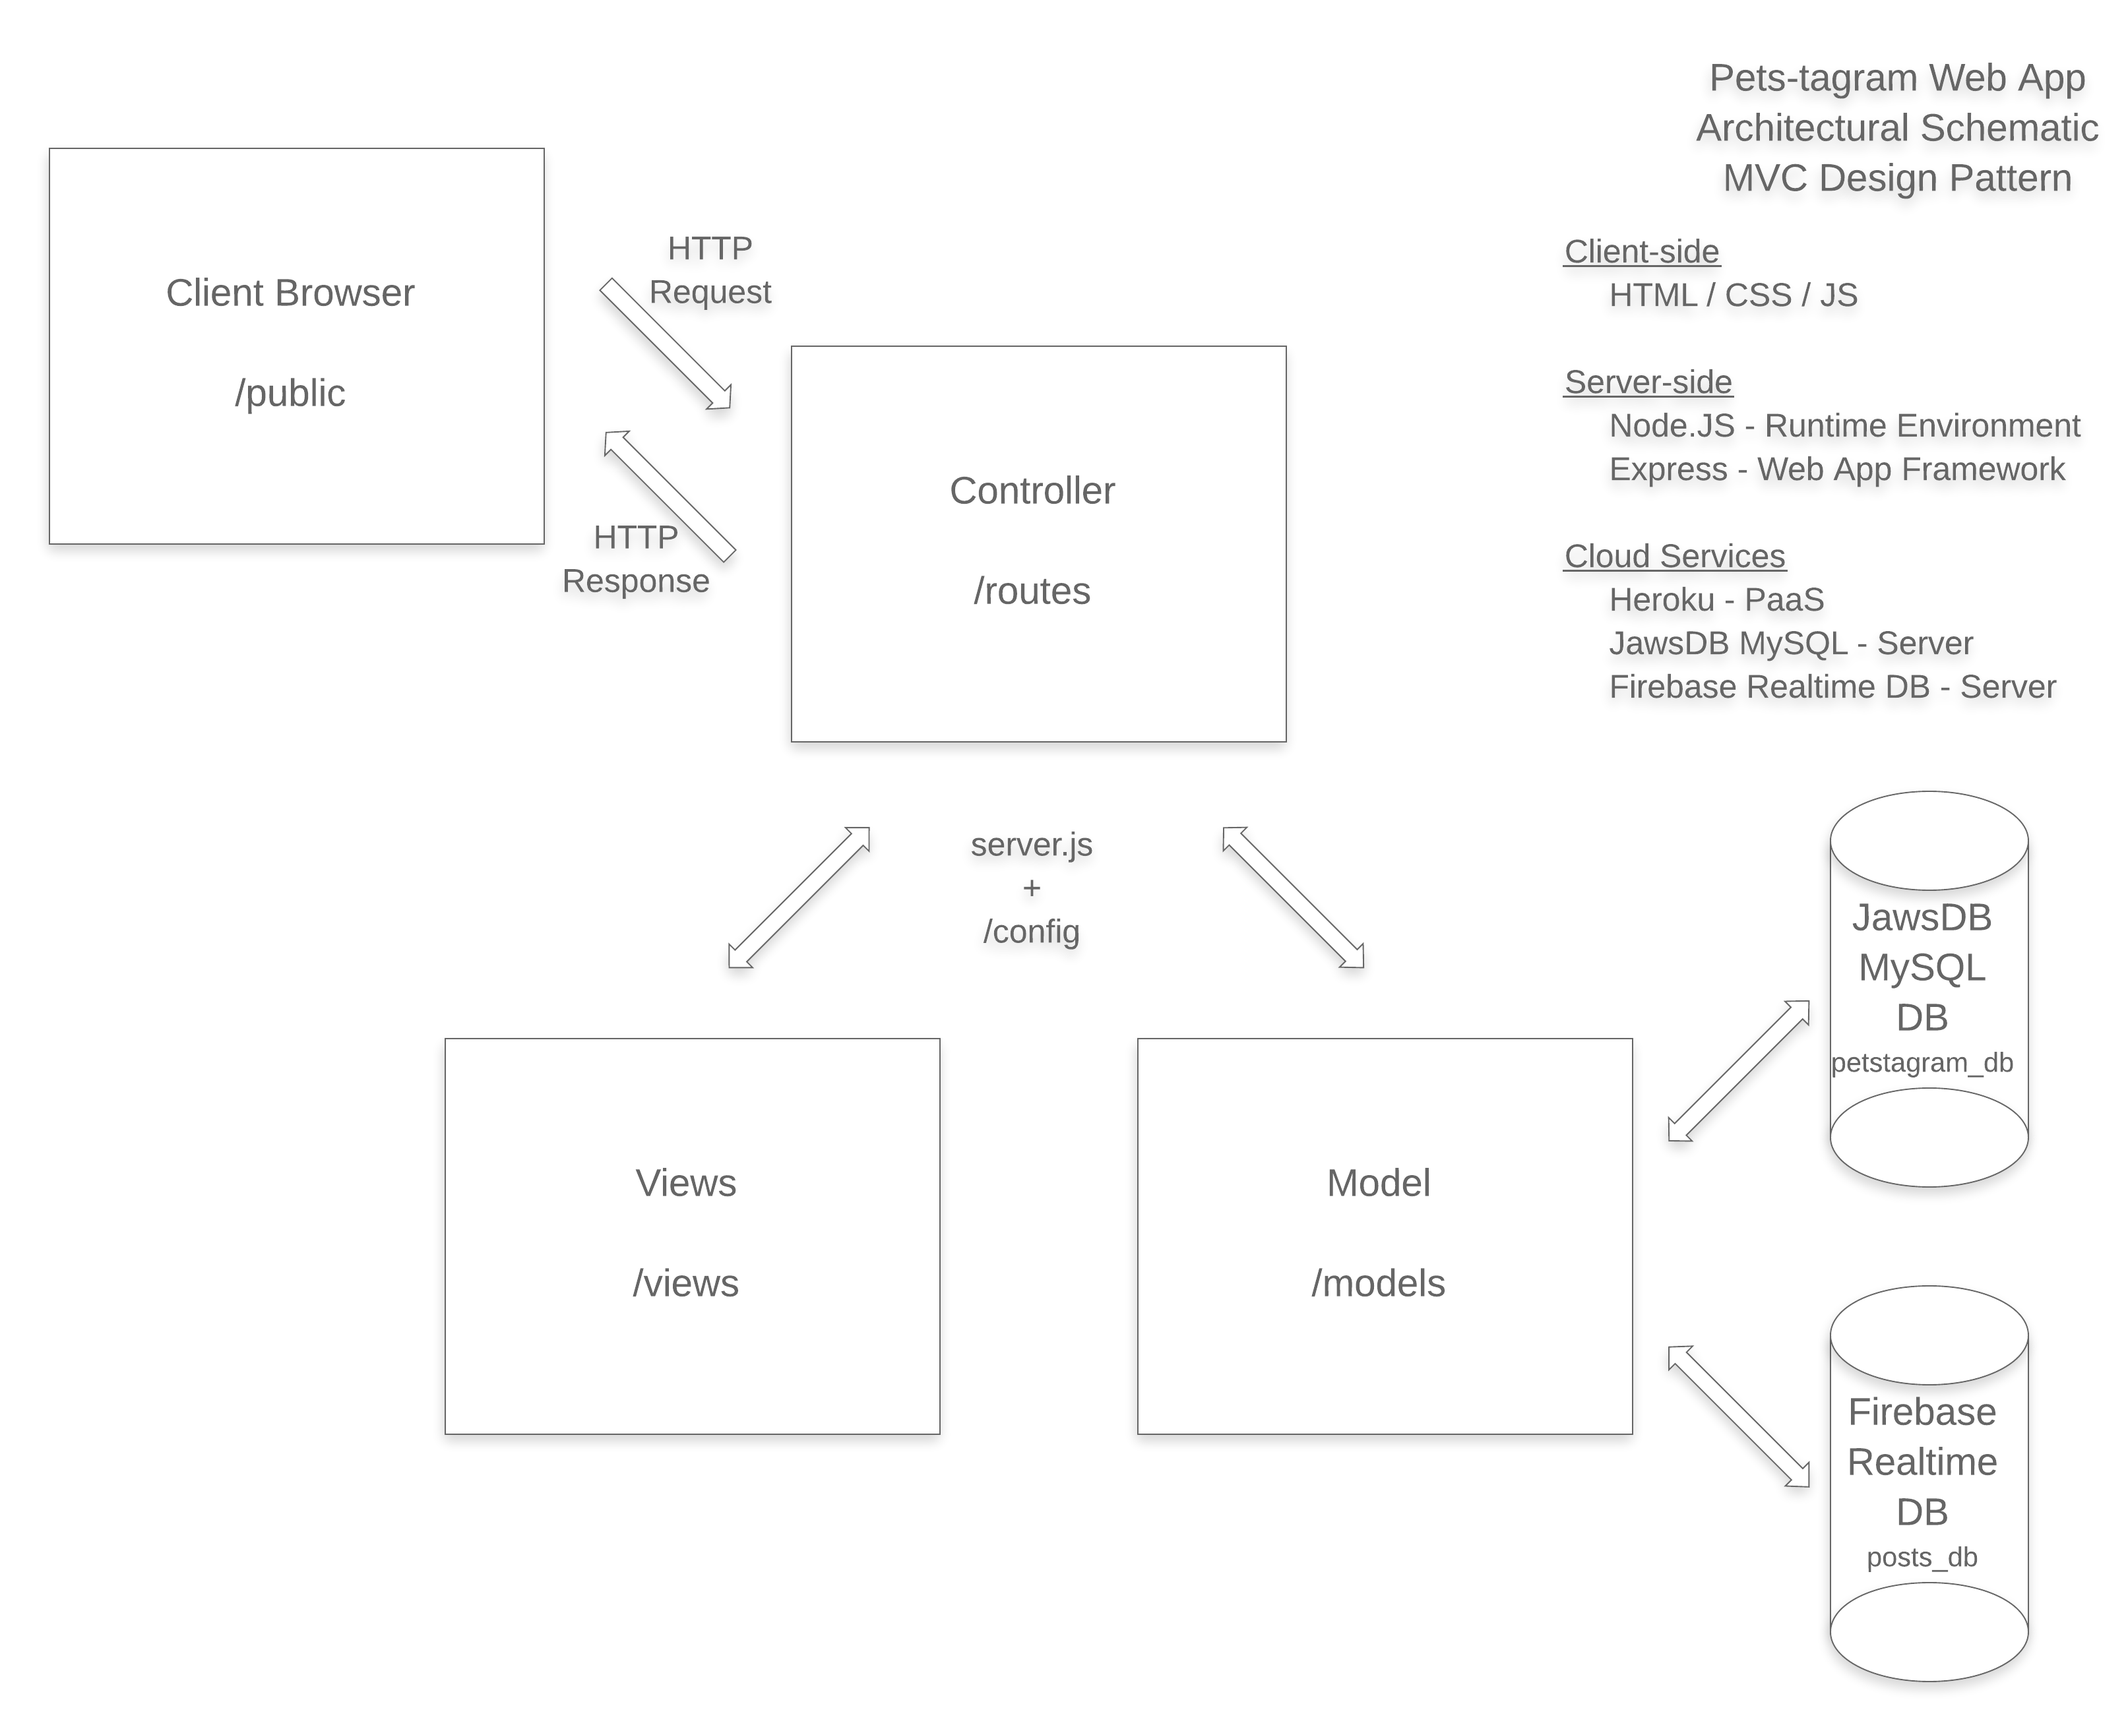
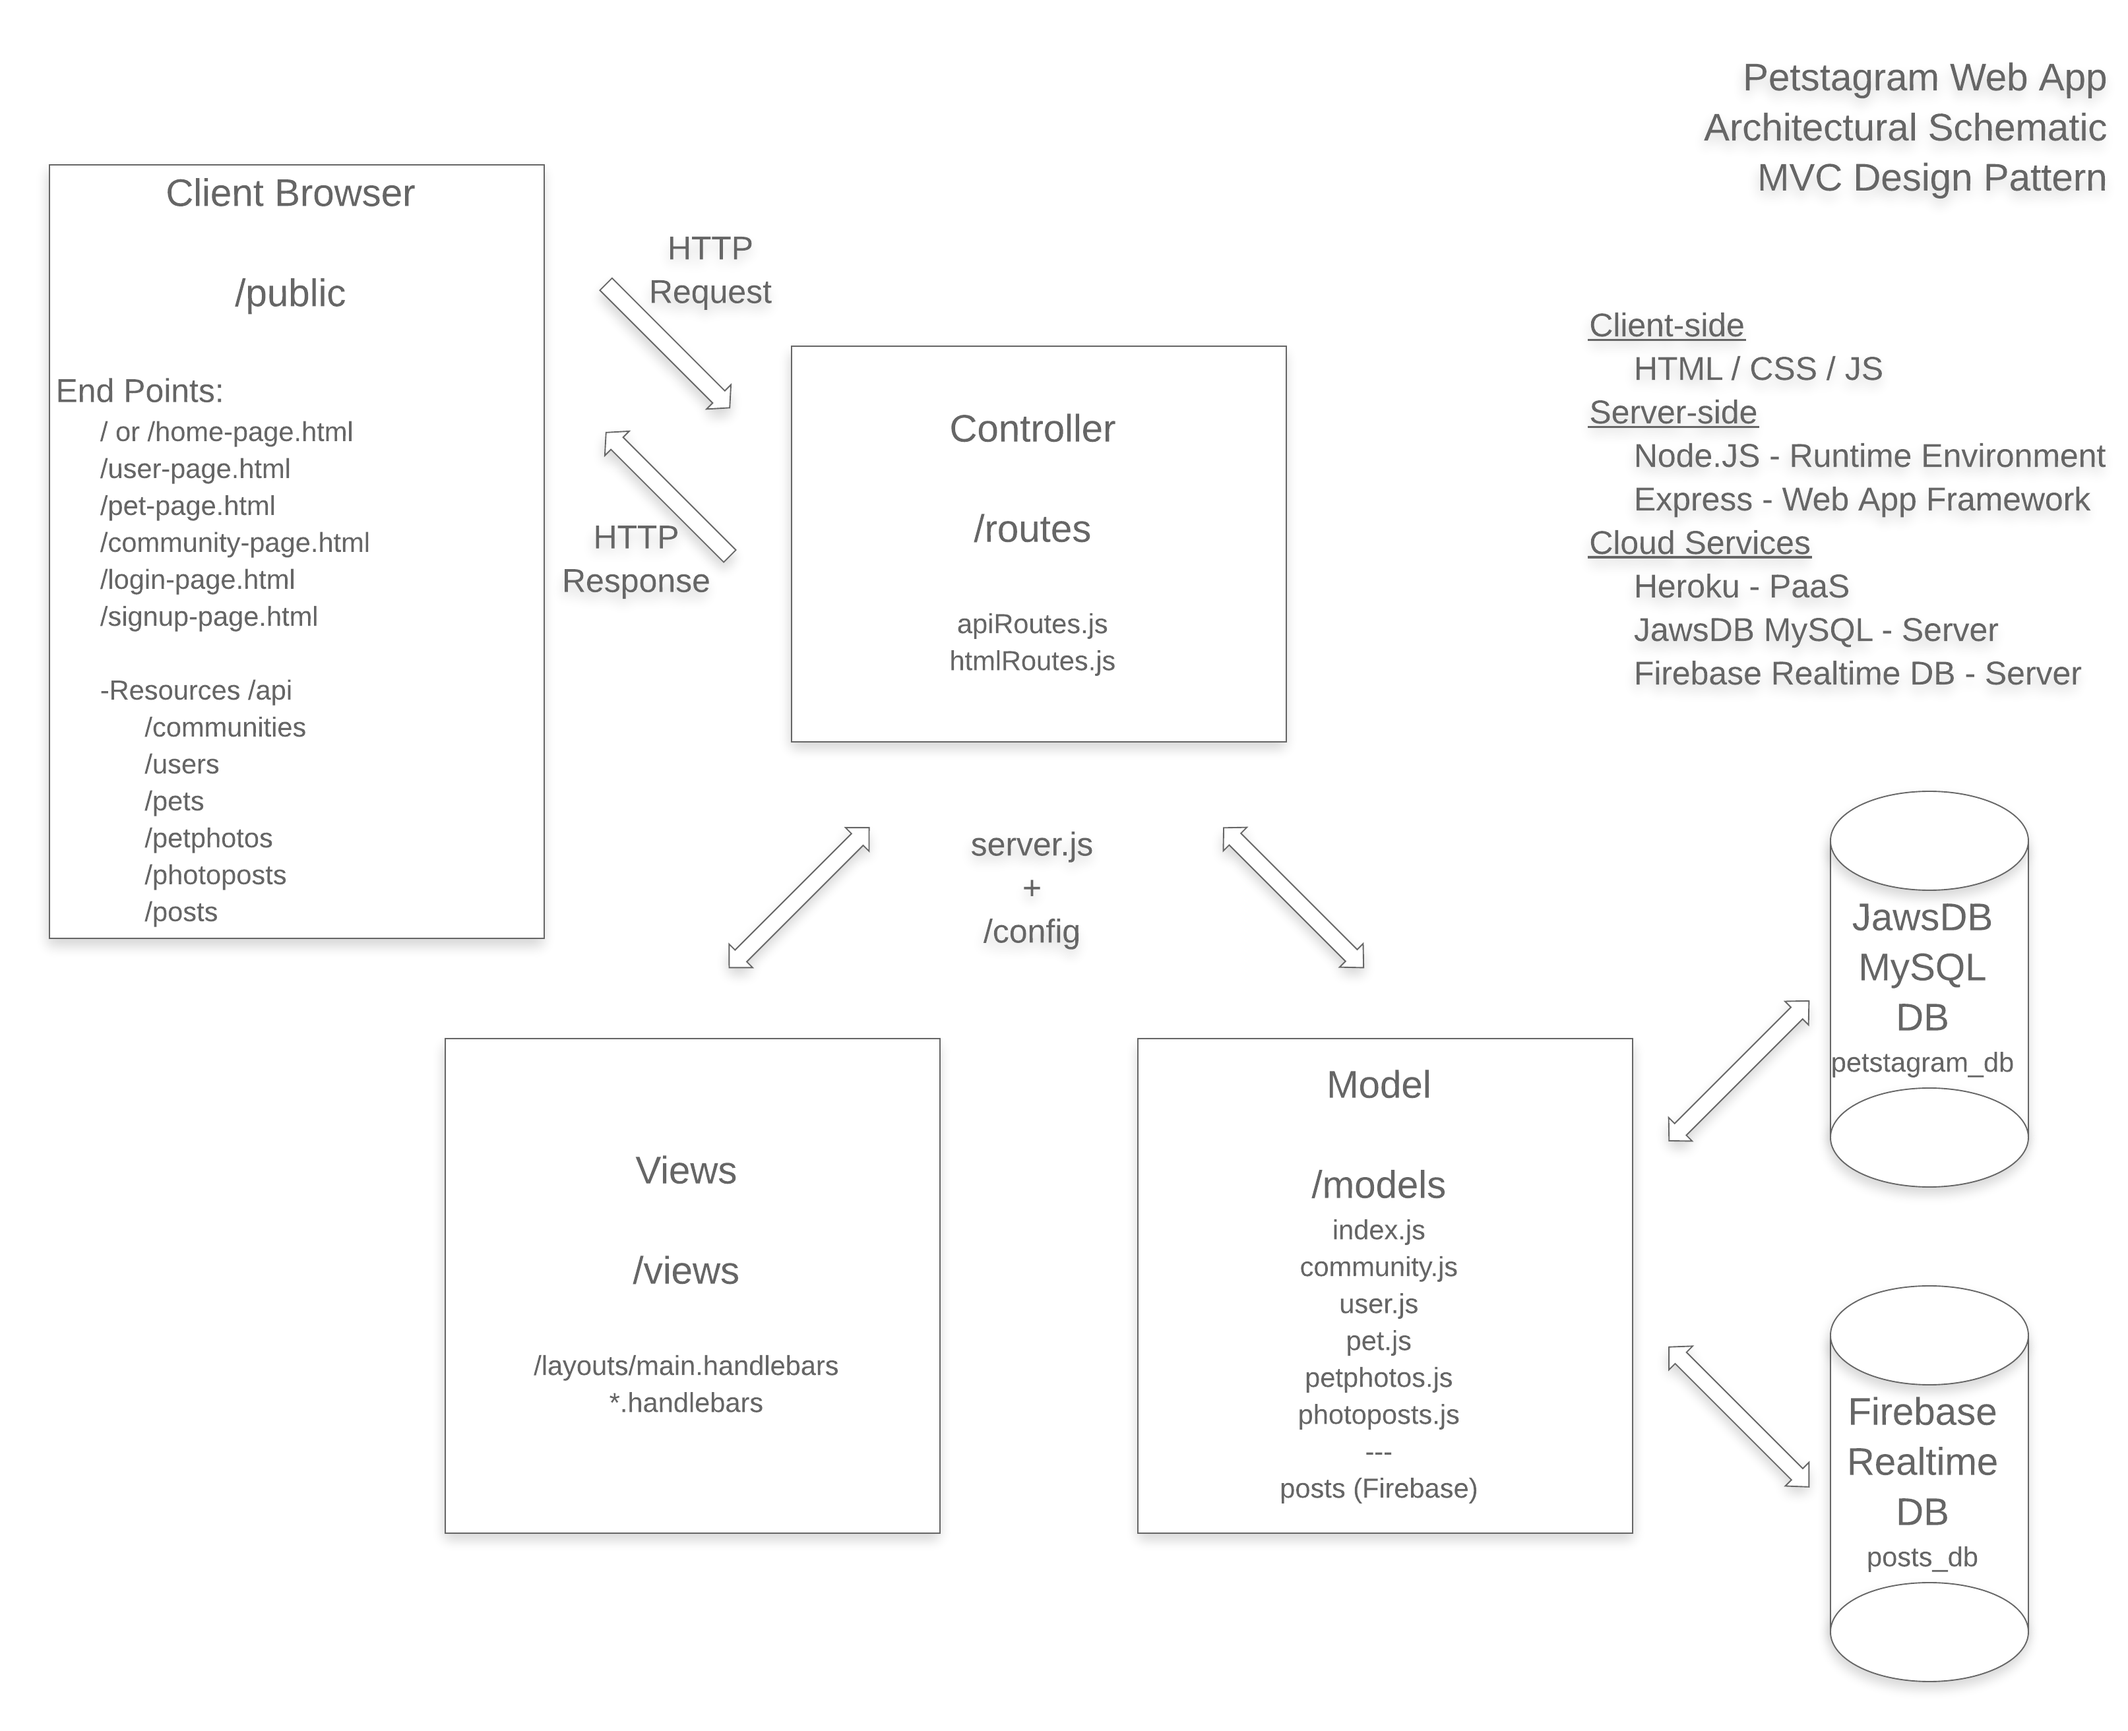
Update architecture, model

diff --git a/README.md b/README.md
@@ -15,7 +15,7 @@
     * DB Tables PLACEHOLDER: split across team, 1-2 tables each (Users, Pets, Communities, etc) 
     * The JavaScript Glue PLACEHOLDER: split across team, and organize into actual user stories
  ### 3. How / Design Description
-  * The scope of the project fits ell into [Agile methodology with Scrum and Kanban frameworks](https://en.wikipedia.org/wiki/Agile_software_development). Due to sufficient scope and group project, GitHub's built-in tools were used to support project execution:
+  * The scope of the project fits well into [Agile methodology with Scrum and Kanban frameworks](https://en.wikipedia.org/wiki/Agile_software_development). Due to sufficient scope and group project, GitHub's built-in tools were used to support project execution:
     * [Projects](https://github.com/sgenini/projectTwo/projects/1): Kanban board for documenting user stories and overall progress
     * [Issues](https://github.com/sgenini/projectTwo/issues): Issue tracking for user stories, features and bug report
   * Functionality - refer to [video of application user flow](https://drive.google.com/open?id=1-7NwQiifKQjHtdcAljDwRRVcP_7MdPFq):
